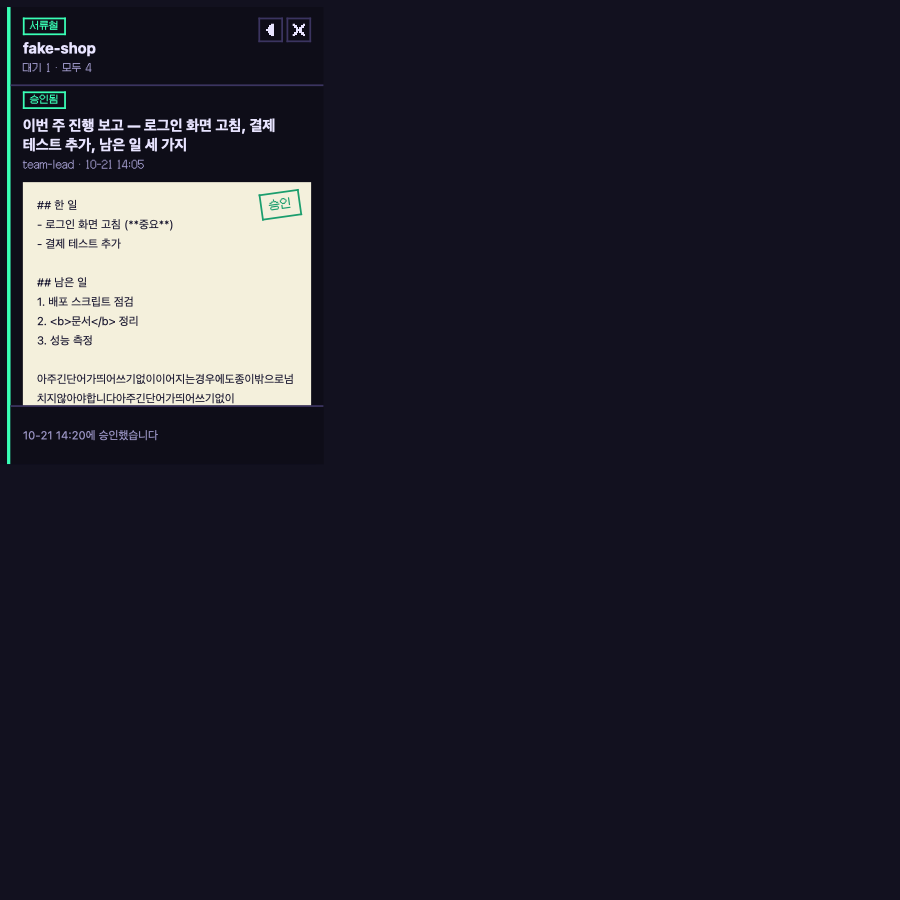
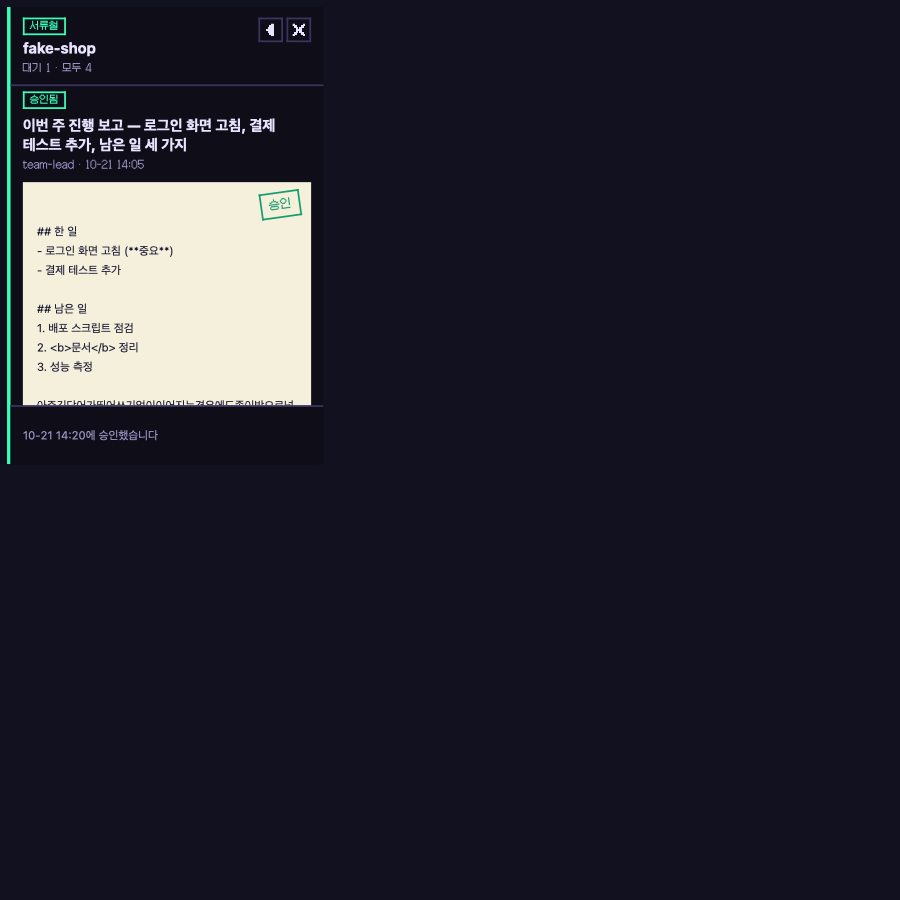
docs(design): Phase 6b - B317 verdicts, archive note instead of a number, seal space on paper

Changed region(s): [[0.0311, 0.2178, 0.3111, 0.4667]]

diff --git a/docs/design/phase6b/renders/mock.css b/docs/design/phase6b/renders/mock.css
@@ -30,6 +30,7 @@
 .rf-stamp.ok { color: var(--green); }
 .rf-stamp.rev { color: var(--pink); }
 .rf-paper { position: relative; margin: 12px 0 4px; padding: 14px 16px; background: var(--paper); color: var(--wall); box-shadow: 0 4px 0 var(--slab); font-family: var(--font-text); font-size: 13px; line-height: 1.7; white-space: pre-wrap; word-break: break-word; overflow-wrap: anywhere; }
+.rf-paper.sealed { padding-top: 44px; } /* 도장 자리를 위에 비워 둠 — 첫 줄이 길면 도장이 글을 덮었다(렌더 확인) */
 .rf-seal { position: absolute; top: 10px; right: 12px; border: 2px solid; padding: 2px 8px; font-family: var(--font-pixel); font-size: 13px; transform: rotate(-8deg); background: var(--paper); }
 .rf-seal.ok { color: #1b9e6e; border-color: #1b9e6e; }
 .rf-seal.rev { color: var(--pink-deep); border-color: var(--pink-deep); }
@@ -106,3 +107,4 @@
 .counter .label { grid-row: 1; line-height: 14px; white-space: nowrap; }
 .counter .value { grid-row: 2; line-height: 24px; font-variant-numeric: tabular-nums; }
 .counter .sub { grid-row: 3; line-height: 14px; white-space: nowrap; }
+.rf-archive-note { margin: 0 6px 6px; font-family: var(--font-text); font-size: 11px; color: var(--muted); word-break: keep-all; }
